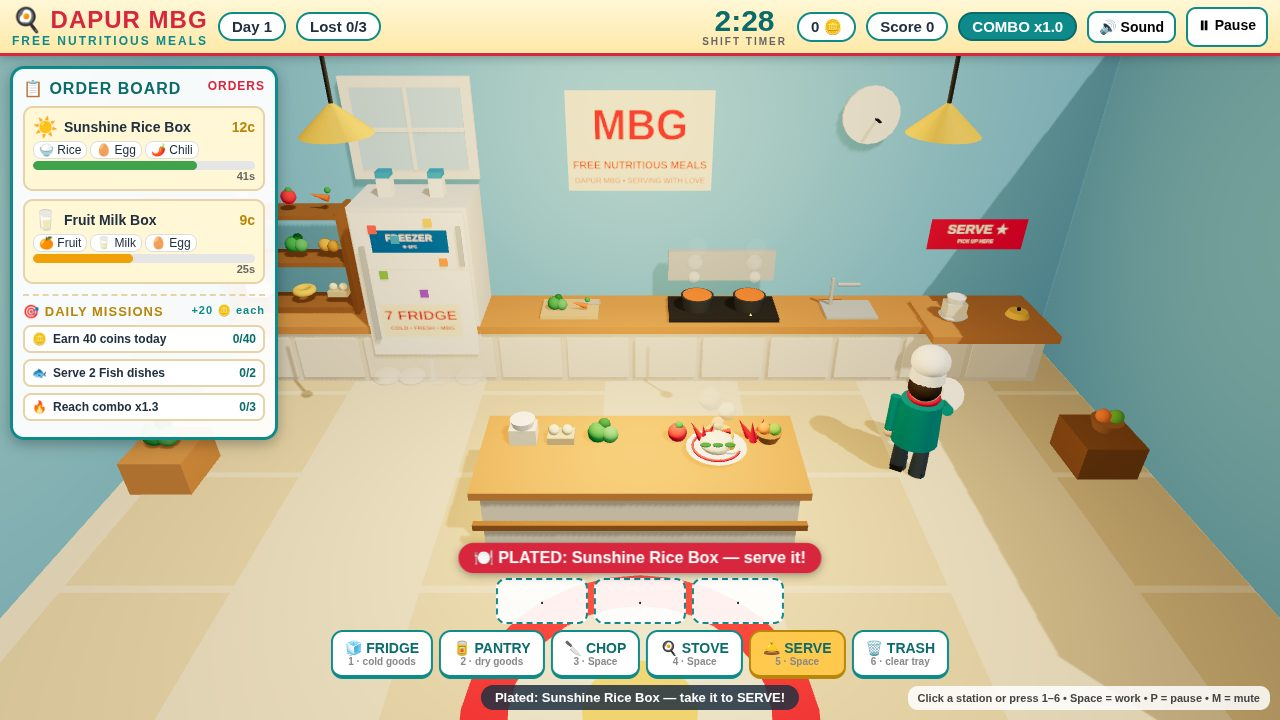
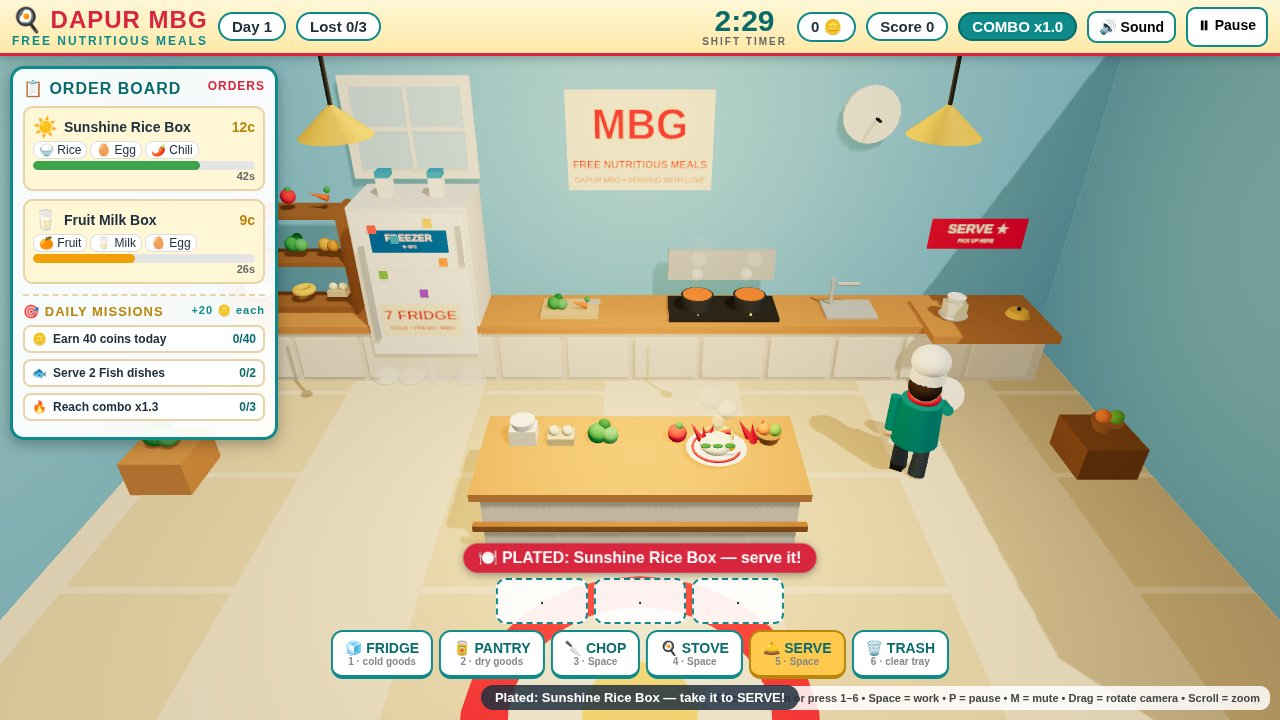
Add orbit camera: drag rotate, wheel/pinch zoom, double-click reset

diff --git a/game/src/camera.js b/game/src/camera.js
@@ -1,0 +1,173 @@
+// camera.js — custom orbit camera: drag to rotate, wheel / pinch to zoom,
+// double-click / double-tap to reset. No libraries, no CDN — ~130 lines.
+// The camera orbits a fixed target (the kitchen centre) on a sphere:
+// azimuth (side to side), polar (height), distance (zoom). All three are
+// clamped so the camera never goes under the floor, behind the back wall,
+// or so far it loses the kitchen. Movement is damped (goal vs current).
+import * as THREE from 'three';
+
+const clamp = (v, a, b) => Math.max(a, Math.min(b, v));
+
+// Default view = the camera the game has always opened with:
+// position (0, 6.6, 6.6) looking at (0, 0.9, -3.0).
+export const CAMERA_DEFAULTS = {
+  target: new THREE.Vector3(0, 0.9, -3.0),
+  azimuth: 0,
+  polar: 1.03,
+  distance: 11.16,
+};
+
+// Azimuth is clamped to the front of the kitchen: past ±0.9 rad the camera
+// would swing behind the back wall and the wall would block the view.
+export const CAMERA_LIMITS = {
+  minDistance: 6, maxDistance: 16,
+  minPolar: 0.35, maxPolar: 1.25,
+  minAzimuth: -0.9, maxAzimuth: 0.9,
+};
+
+export function createOrbitCamera(camera, dom, opts = {}) {
+  const onTap = opts.onTap || (() => {});
+  // hitTest(e) -> true when the pointer is over something clickable
+  // (a station): a double-tap there is two station clicks, not a reset.
+  const hitTest = opts.hitTest || (() => false);
+  const defaults = {
+    target: (opts.target || CAMERA_DEFAULTS.target).clone(),
+    azimuth: opts.azimuth ?? CAMERA_DEFAULTS.azimuth,
+    polar: opts.polar ?? CAMERA_DEFAULTS.polar,
+    distance: opts.distance ?? CAMERA_DEFAULTS.distance,
+  };
+  const target = defaults.target.clone();
+  // goal = where input wants the camera; current = damped, what is rendered
+  let goal = { azimuth: defaults.azimuth, polar: defaults.polar, distance: defaults.distance };
+  let cur = { ...goal };
+
+  const pointers = new Map(); // pointerId -> { x, y }
+  let pinchDist = 0;
+  let downPos = null;
+  let moved = 0;
+  let dragging = false;
+  let lastTapTime = 0;
+
+  function apply() {
+    const sp = Math.sin(cur.polar), cp = Math.cos(cur.polar);
+    camera.position.set(
+      target.x + cur.distance * sp * Math.sin(cur.azimuth),
+      target.y + cur.distance * cp,
+      target.z + cur.distance * sp * Math.cos(cur.azimuth),
+    );
+    camera.lookAt(target);
+  }
+
+  function update(dt) {
+    const k = 1 - Math.exp(-dt * 10); // frame-rate independent damping
+    cur.azimuth += (goal.azimuth - cur.azimuth) * k;
+    cur.polar += (goal.polar - cur.polar) * k;
+    cur.distance += (goal.distance - cur.distance) * k;
+    apply();
+  }
+
+  // Re-derive the orbit state from wherever the camera currently is
+  // (used after a screenshot preset sets the camera by hand).
+  function syncFromCamera() {
+    const off = camera.position.clone().sub(target);
+    const d = Math.max(off.length(), 0.001);
+    goal.distance = cur.distance = clamp(d, CAMERA_LIMITS.minDistance, CAMERA_LIMITS.maxDistance);
+    goal.polar = cur.polar = clamp(Math.acos(clamp(off.y / d, -1, 1)), CAMERA_LIMITS.minPolar, CAMERA_LIMITS.maxPolar);
+    goal.azimuth = cur.azimuth = clamp(Math.atan2(off.x, off.z), CAMERA_LIMITS.minAzimuth, CAMERA_LIMITS.maxAzimuth);
+    apply();
+  }
+
+  function reset() {
+    target.copy(defaults.target);
+    goal = { azimuth: defaults.azimuth, polar: defaults.polar, distance: defaults.distance };
+    cur = { ...goal }; // snap: no slow drift back on a reset
+    apply();
+  }
+
+  function setTarget(v) { target.copy(v); }
+
+  function onPointerDown(e) {
+    try { dom.setPointerCapture(e.pointerId); } catch (err) { /* synthetic pointers can't be captured */ }
+    pointers.set(e.pointerId, { x: e.clientX, y: e.clientY });
+    if (pointers.size === 1) {
+      downPos = { x: e.clientX, y: e.clientY };
+      moved = 0;
+      dragging = false;
+    } else if (pointers.size === 2) {
+      const [a, b] = [...pointers.values()];
+      pinchDist = Math.hypot(a.x - b.x, a.y - b.y);
+      dragging = true; // a pinch is never a tap
+    }
+  }
+
+  function onPointerMove(e) {
+    const p = pointers.get(e.pointerId);
+    if (!p) return;
+    const dx = e.clientX - p.x, dy = e.clientY - p.y;
+    p.x = e.clientX; p.y = e.clientY;
+    if (pointers.size === 2) {
+      const [a, b] = [...pointers.values()];
+      const d = Math.hypot(a.x - b.x, a.y - b.y);
+      if (pinchDist > 0 && d > 0) {
+        goal.distance = clamp(goal.distance * (pinchDist / d), CAMERA_LIMITS.minDistance, CAMERA_LIMITS.maxDistance);
+      }
+      pinchDist = d;
+      return;
+    }
+    if (pointers.size === 1) {
+      moved += Math.abs(dx) + Math.abs(dy);
+      if (moved > 5) dragging = true; // >5px = a drag, not a click
+      if (dragging) {
+        goal.azimuth = clamp(goal.azimuth - dx * 0.005, CAMERA_LIMITS.minAzimuth, CAMERA_LIMITS.maxAzimuth);
+        goal.polar = clamp(goal.polar - dy * 0.005, CAMERA_LIMITS.minPolar, CAMERA_LIMITS.maxPolar);
+      }
+    }
+  }
+
+  function onPointerUp(e) {
+    pointers.delete(e.pointerId);
+    if (pointers.size < 2) pinchDist = 0;
+    if (pointers.size > 0) return; // another finger still down: no tap
+    const wasTap = !dragging && downPos && Math.hypot(e.clientX - downPos.x, e.clientY - downPos.y) <= 5;
+    dragging = false;
+    downPos = null;
+    if (!wasTap) return;
+    const t = performance.now();
+    if (t - lastTapTime < 300 && !hitTest(e)) {
+      // double-tap on empty space: reset the camera, swallow the tap
+      lastTapTime = 0;
+      reset();
+      return;
+    }
+    lastTapTime = t;
+    onTap(e);
+  }
+
+  function onWheel(e) {
+    e.preventDefault();
+    goal.distance = clamp(goal.distance * Math.exp(e.deltaY * 0.001), CAMERA_LIMITS.minDistance, CAMERA_LIMITS.maxDistance);
+  }
+
+  function onDoubleClick(e) {
+    if (!hitTest(e)) reset(); // double-click on a station is two clicks, not a reset
+  }
+
+  dom.style.touchAction = 'none'; // let pointer events drive touch drag/pinch
+  dom.addEventListener('pointerdown', onPointerDown);
+  dom.addEventListener('pointermove', onPointerMove);
+  dom.addEventListener('pointerup', onPointerUp);
+  dom.addEventListener('pointercancel', onPointerUp);
+  dom.addEventListener('wheel', onWheel, { passive: false });
+  dom.addEventListener('dblclick', onDoubleClick);
+
+  apply();
+  return {
+    update, reset, syncFromCamera, setTarget,
+    state: () => ({
+      azimuth: +cur.azimuth.toFixed(3),
+      polar: +cur.polar.toFixed(3),
+      distance: +cur.distance.toFixed(2),
+      target: target.toArray().map((v) => +v.toFixed(2)),
+    }),
+  };
+}

diff --git a/game/src/game.js b/game/src/game.js
@@ -6,6 +6,7 @@ import { buildKitchen, buildIngredientProp, buildPlatedDish } from './kitchen.js
 import { buildChef } from './chef.js';
 import { createOrderManager } from './orders.js';
 import { createMissionManager, MISSION_BONUS } from './missions.js';
+import { createOrbitCamera } from './camera.js';
 import * as SFX from './audio.js';
 
 const $ = (id) => document.getElementById(id);
@@ -15,7 +16,19 @@ const params = new URLSearchParams(location.search);
 const SHOT = params.get('shot') || '';
 
 let renderer, scene, camera, clock;
+let orbit;
 let kitchen, chef, chefTarget = null, chefStation = null;
+let rayTargets = [];
+const ray = new THREE.Raycaster();
+// Raycast a pointer event against the invisible station hit boxes.
+// Returns the station id or null — shared by tap handling and the
+// camera's hitTest (a double-tap on a station is two clicks, not a reset).
+function stationAt(e) {
+  const m = new THREE.Vector2((e.clientX / innerWidth) * 2 - 1, -(e.clientY / innerHeight) * 2 + 1);
+  ray.setFromCamera(m, camera);
+  const hit = ray.intersectObjects(rayTargets)[0];
+  return hit ? hit.object.userData.station : null;
+}
 let tray = []; // { id, chopped, cooked }
 let plated = null; // dish object on the island
 let plateMesh = null;
@@ -48,6 +61,18 @@ function init() {
   camera.position.set(0, 6.6, 6.6);
   camera.lookAt(0, 0.9, -3.0);
 
+  // orbit camera: drag to rotate, wheel / pinch to zoom, double-click to
+  // reset. A plain click (no drag) still reaches the stations below.
+  orbit = createOrbitCamera(camera, canvas, {
+    onTap: (e) => {
+      if (state !== 'playing') return;
+      SFX.ensureAudio();
+      const id = stationAt(e);
+      if (id) goToStation(id, true);
+    },
+    hitTest: (e) => !!stationAt(e),
+  });
+
   scene.add(new THREE.AmbientLight(0xfff4e0, 0.85));
   const sun = new THREE.DirectionalLight(0xfff1d6, 1.6);
   sun.position.set(5, 10, 6); sun.castShadow = true;
@@ -63,8 +88,7 @@ function init() {
   chef.group.position.set(0, 0, 1.6);
   scene.add(chef.group);
 
-  // invisible click targets on the stations
-  const rayTargets = [];
+  // invisible click targets on the stations (raycast by stationAt)
   for (const st of STATIONS) {
     const s = kitchen.stations[st.id];
     const hit = new THREE.Mesh(new THREE.BoxGeometry(2.2, 2.4, 1.6), new THREE.MeshBasicMaterial({ visible: false }));
@@ -72,15 +96,6 @@ function init() {
     hit.userData.station = st.id;
     scene.add(hit); rayTargets.push(hit);
   }
-  const ray = new THREE.Raycaster();
-  canvas.addEventListener('pointerdown', (e) => {
-    if (state !== 'playing') return;
-    SFX.ensureAudio();
-    const m = new THREE.Vector2((e.clientX / innerWidth) * 2 - 1, -(e.clientY / innerHeight) * 2 + 1);
-    ray.setFromCamera(m, camera);
-    const hit = ray.intersectObjects(rayTargets)[0];
-    if (hit) goToStation(hit.object.userData.station, true);
-  });
 
   orderMgr = createOrderManager(onOrderEvent);
   missionMgr = createMissionManager(onMissionEvent);
@@ -89,6 +104,7 @@ function init() {
   addEventListener('resize', onResize);
   renderer.setAnimationLoop(tick);
   if (SHOT) applyShot(SHOT);
+  orbit.syncFromCamera(); // adopt the shot's camera (or the default) as the orbit state
   renderOrders();
   updateHUD();
 }
@@ -447,6 +463,10 @@ function applyShot(shot) {
     $('dock').style.transform = 'none';
     camera.position.set(1.1, 6.6, 6.6);
     camera.lookAt(-0.5, 0.9, -3.0);
+    // the cover shot looks at a point left of the default target — tell the
+    // orbit camera, or its first update() would swing back to the default
+    orbit.setTarget(new THREE.Vector3(-0.5, 0.9, -3.0));
+    orbit.syncFromCamera();
     // 3 orders, not 4: the board now also carries the missions panel, and a
     // 4th order pushes the panel's bottom rows under the dock's PLATED banner.
     forceOrders([['sunshine-rice', 48], ['chicken-noodle', 40], ['beef-potato', 22]]);
@@ -508,6 +528,7 @@ function applyShot(shot) {
 function tick() {
   const dt = Math.min(clock.getDelta(), 0.25); // generous cap: slow machines still play in real time
   const t = clock.elapsedTime;
+  orbit.update(dt); // damped orbit — runs in every state, incl. title
   kitchen.update(dt, t);
 
   if (state === 'playing') {
@@ -556,6 +577,7 @@ window.__mbg = {
   plated: () => (plated ? plated.id : null),
   missions: () => missionMgr.state(),
   music: () => SFX.musicStats(),
+  camera: () => orbit.state(),
 };
 
 init();

diff --git a/game/index.html b/game/index.html
@@ -157,7 +157,7 @@
   <div id="hint">Welcome to Dapur MBG!</div>
 </div>
 
-<div id="controls-hint">Click a station or press 1–6 • Space = work • P = pause • M = mute</div>
+<div id="controls-hint">Click a station or press 1–6 • Space = work • P = pause • M = mute • Drag = rotate camera • Scroll = zoom</div>
 
 <div class="overlay" id="title-screen">
   <div class="card">
@@ -172,7 +172,8 @@
       🖱 Click a station (or press 1–6) to send Chef Sari there &nbsp;•&nbsp; <b>Space</b> works at a station<br>
       ⭐ Serve fast in a row to build your combo up to <b>x2.0</b> &nbsp;•&nbsp; <b>P</b> pause, <b>M</b> mute<br>
       🎯 <b>Daily missions</b> — finish 3 goals a day for <b>+20 bonus coins</b> each; a new set every day<br>
-      🎵 Original kitchen BGM loops while you cook &nbsp;•&nbsp; <b>M</b> mutes music + sounds
+      🎵 Original kitchen BGM loops while you cook &nbsp;•&nbsp; <b>M</b> mutes music + sounds<br>
+      🖱 <b>Drag to rotate</b> the kitchen &nbsp;•&nbsp; <b>Scroll / pinch to zoom</b> &nbsp;•&nbsp; <b>Double-click to reset</b> the camera
     </div>
     <button class="big-btn" id="start-btn">▶ START SHIFT</button>
     <p style="margin-top:10px; font-size:12px; color:#888;">10 dishes • 16 ingredients • 150-second shifts • a new day every 4 serves</p>
